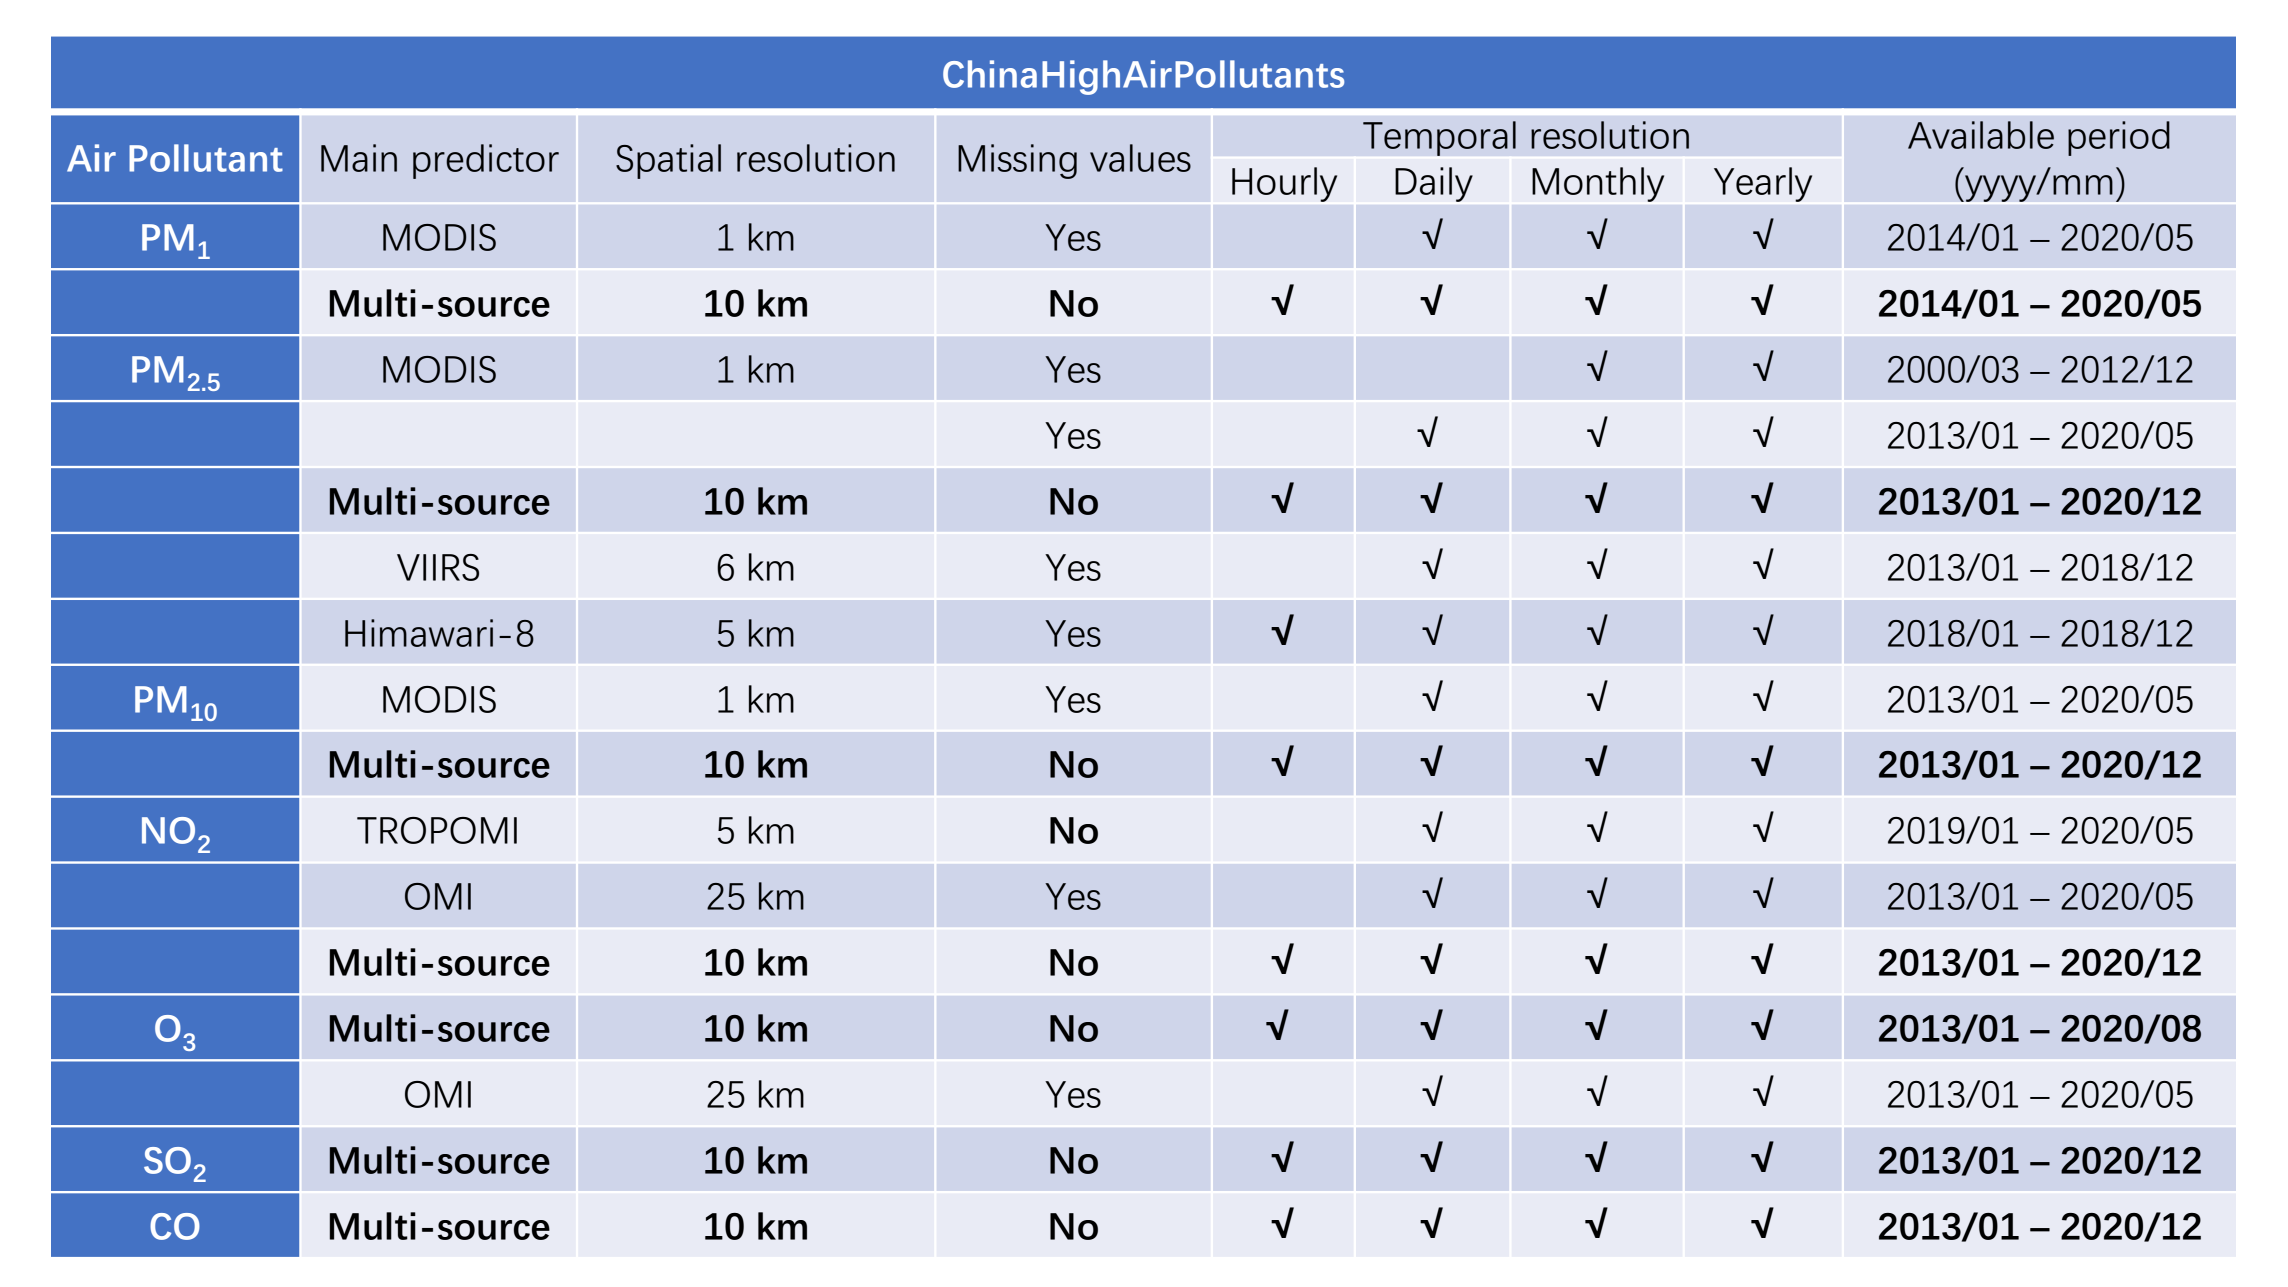
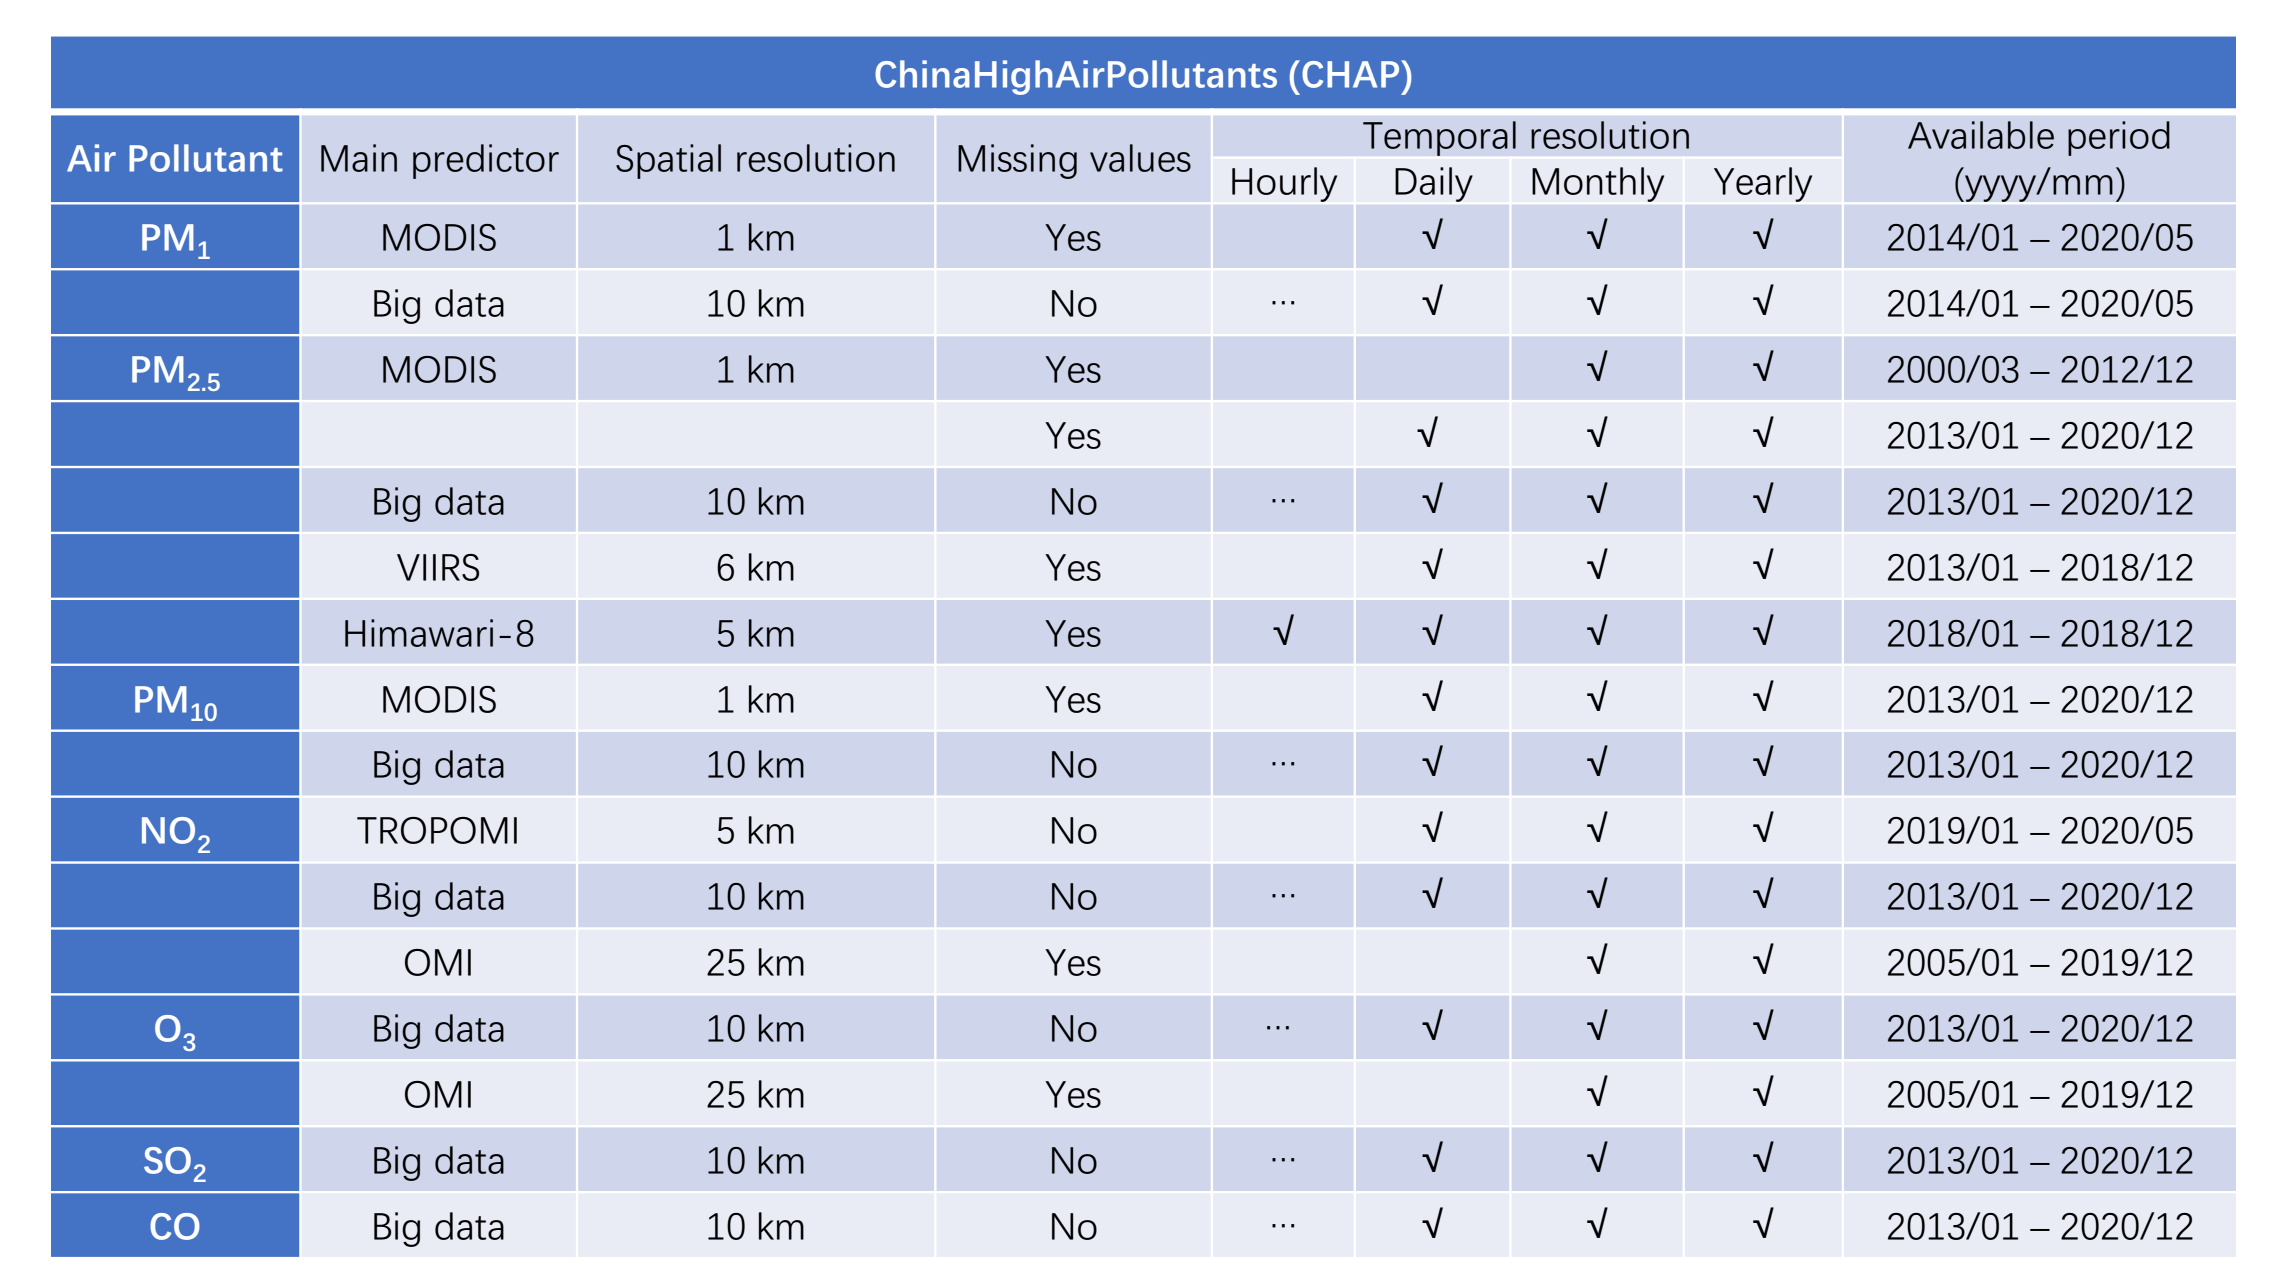
update

diff --git a/product.html b/product.html
@@ -50,10 +50,10 @@
     <p style="text-align:center;"> <strong><font size="4">ChinaHighAirPollutants (CHAP)</font></strong></p>
     <ul>
     <li><p><strong>Brief Introduction</strong></p>
-      <p>The ChinaHighAirPollutants (CHAP) dataset refers to the <strong>long-term</strong>, <strong>full-coverage</strong>, <strong>high-resolution</strong>, and <strong>high-quality</strong> near-surface air pollutants in China. It is generated using the 
-        multi-source satellite remote sensing and artificial intelligence, which combined the ground-based measurements, remote sensing products, atmospheric reanalysis, and model simulations, 
-        and solved the spatiotemporal heterogeneity of air pollution. This dataset contains <strong>7</strong> major air pollutants (i.e., <strong>PM<sub>1</sub></strong>, <strong>PM<sub>2.5</sub></strong>, <strong>PM<sub>10</sub></strong>, 
-        <strong>O<sub>3</sub></strong>, <strong>NO<sub>2</sub></strong>, <strong>SO<sub>2</sub></strong>, and <strong>CO</strong>), more importantly, the <strong>atmospheric component</strong> dataset will be soon released. This dataset is <strong>public</strong> and <strong>freely</strong> open to all users! </p>
+      <p>The ChinaHighAirPollutants (CHAP) dataset refers to the <strong>long-term</strong>, <strong>full-coverage</strong>, <strong>high-resolution</strong>, and <strong>high-quality</strong> near-surface air pollutants in China. 
+        It considered the spatiotemporal heterogeneity of air pollution, and generated using the satellite remote sensing, artificial intelligence, and big data, e.g., ground-based measurements, remote sensing products, atmospheric reanalysis, and model simulations. 
+        This dataset contains <strong>7</strong> major air pollutants (i.e., <strong>PM<sub>1</sub></strong>, <strong>PM<sub>2.5</sub></strong>, <strong>PM<sub>10</sub></strong>, 
+        <strong>O<sub>3</sub></strong>, <strong>NO<sub>2</sub></strong>, <strong>SO<sub>2</sub></strong>, and <strong>CO</strong>). More importantly, the <strong>atmospheric component</strong> dataset will be soon released. This dataset is <strong>public</strong> and <strong>freely</strong> open to all users! </p>
     </li>  
     <li><p><strong>Dataset summary</strong></p>
       <div align="center">
@@ -80,7 +80,7 @@
       <p>Data Link: Will be online soon, but still available by contacting me!</p>
       <p>Reference: Wei, J., Li, Z., Pinker, R. T., Sun, L., Xue, W., and Li, R. <a href='https://doi.org/10.5194/acp-2020-1277' target='_blank' class='url'>Himawari-8-derived diurnal variations of ground-level PM<sub>2.5</sub> pollution across China using a fast space-time Light Gradient Boosting Machine</a>. <em>Atmospheric Chemistry and Physics Discussion</em>, 2021, in review. https://doi.org/10.5194/acp-2020-1277</p>   
    
-      <p><strong>[5] Multi-source: China, 10 km, <font color="red">Full coverage</font>, Yearly/Monthly/Daily, 2013-2020 (Version 1)</strong></p>
+      <p><strong>[5] Big data: China, 10 km, <font color="red">Full coverage</font>, Yearly/Monthly/Daily, 2013-2020 (Version 1)</strong></p>
       <p>Data Link: <a href='https://doi.org/10.5281/zenodo.4641555' target='_blank' class='url'>https://doi.org/10.5281/zenodo.4641555</a></p>
       <p>Reference: Wei, J., et al. In preparation.</p>
       
@@ -94,7 +94,7 @@
       <p>Data Link: <a href='https://doi.org/10.5281/zenodo.3758510' target='_blank' class='url'>https://doi.org/10.5281/zenodo.3758510</a></p>     
       <p>Reference: Wei, J., Li, Z., Guo, J., Sun, L., Huang, W., Xue, W., Fan, T, and Cribb, M. <a href='./publications/Wei_et_al-EST-2019.pdf' target='_blank' class='url'>Satellite-derived 1-km-resolution PM<sub>1</sub> concentrations from 2014 to 2018 across China</a>. <em>Environmental Science &amp; Technology</em>, 2019, 53(22), 13265-13274. https://doi.org/10.1021/acs.est.9b03258</p>
       
-      <p><strong>[2] Multi-source: China, 10 km, <font color="red">Full coverage</font>, Yearly/Monthly/Daily, 2013-2020 (Version 1)</strong></p>
+      <p><strong>[2] Big data: China, 10 km, <font color="red">Full coverage</font>, Yearly/Monthly/Daily, 2013-2020 (Version 1)</strong></p>
       <p>Data Link: <a href='https://doi.org/10.5281/zenodo.4641561' target='_blank' class='url'>https://doi.org/10.5281/zenodo.4641561</a></p>
       <p>Reference: Wei, J., et al. In preparation.</p> 
       
@@ -108,7 +108,7 @@
       <p>Data Link: <a href='https://doi.org/10.5281/zenodo.4396133' target='_blank' class='url'>https://doi.org/10.5281/zenodo.4396133</a></p>
       <p>Reference: Wei, J., Li, Z., Xue, W., Sun, L., Fan, T., Liu, L., Su, T., and Cribb, M. <a href='./publications/Wei_et_al-EI-2021.pdf' target='_blank' class='url'>The ChinaHighPM<sub>10</sub> dataset: generation, validation, and spatiotemporal variations from 2013 to 2019 across China</a>. <em>Environment International</em>, 2021, 146, 106290. https://doi.org/10.1016/j.envint.2020.106290</p>      
  
-      <p><strong>[2] Multi-source: China, 10 km, <font color="red">Full coverage</font>, Yearly/Monthly/Daily, 2013-2020 (Version 1)</strong></p>
+      <p><strong>[2] Big data: China, 10 km, <font color="red">Full coverage</font>, Yearly/Monthly/Daily, 2013-2020 (Version 1)</strong></p>
       <p>Data Link: <a href='https://doi.org/10.5281/zenodo.4641551' target='_blank' class='url'>https://doi.org/10.5281/zenodo.4641551</a></p>
       <p>Reference: Wei, J., et al. In preparation.</p> 
       
@@ -118,10 +118,14 @@
     </li>
 
     <li><p><strong>ChinaHighO<sub>3</sub> dataset</strong></p>
-      <p><strong>Multi-source: China, <font color="red">Full coverage</font>, 10 km, Yearly/Monthly/Daily, 2013-2020 (Version 1)</strong></p>
+      <p><strong>[1] Big data: China, <font color="red">Full coverage</font>, 10 km, Yearly/Monthly/Daily, 2013-2020 (Version 1)</strong></p>
       <p>Data Link: <a href='https://doi.org/10.5281/zenodo.4400043' target='_blank' class='url'>https://doi.org/10.5281/zenodo.4400043</a></p>    
       <p>Reference: Wei, J., et al. Under review.</p>  
       
+      <p><strong>[2] OMI, 25 km, Yearly/Monthly/Daily, 2005-2019 (Version 1)</strong></p>
+      <p>Data Link: <a href='https://doi.org/10.5281/zenodo.3988420' target='_blank' class='url'>https://doi.org/10.5281/zenodo.3988420</a></p>
+      <p>Reference: Wei, J., et al. In preparation.</p>
+
       <div align="center">
         <img src="./pictures/ChinaHighO3.png" width="80%" />
       </div>          
@@ -132,11 +136,11 @@
       <p>Data Link: <a href='https://doi.org/10.5281/zenodo.4571661' target='_blank' class='url'>https://doi.org/10.5281/zenodo.4571661</a></p>   
       <p>Reference: Wei, J., et al. Under review.</p>  
 
-      <p><strong>[2] Multi-source: China, 10 km, <font color="red">Full coverage</font>, Yearly/Monthly/Daily, 2013-2020 (Version 1)</strong></p>
+      <p><strong>[2] Big data: China, 10 km, <font color="red">Full coverage</font>, Yearly/Monthly/Daily, 2013-2020 (Version 1)</strong></p>
       <p>Data Link: <a href='https://doi.org/10.5281/zenodo.4641543' target='_blank' class='url'>https://doi.org/10.5281/zenodo.4641543</a></p>
       <p>Reference: Wei, J., et al. In preparation.</p> 
 
-      <p><strong>[3] OMI, 25 km, Yearly/Monthly/Daily, 2013-2020 (Version 1)</strong></p>
+      <p><strong>[3] OMI, 25 km, Yearly/Monthly/Daily, 2005-2019 (Version 1)</strong></p>
       <p>Data Link: <a href='https://doi.org/10.5281/zenodo.3988349' target='_blank' class='url'>https://doi.org/10.5281/zenodo.3988349</a></p>
       <p>Reference: Wei, J., et al. In preparation.</p>
       
@@ -146,7 +150,7 @@
     </li>
 
     <li><p><strong>ChinaHighSO<sub>2</sub> dataset</strong></p>
-      <p><strong>Multi-source: China, 10 km, <font color="red">Full coverage</font>, Yearly/Monthly/Daily, 2013-2020 (Version 1)</strong></p>
+      <p><strong>Big data: China, 10 km, <font color="red">Full coverage</font>, Yearly/Monthly/Daily, 2013-2020 (Version 1)</strong></p>
       <p>Data Link: <a href='https://doi.org/10.5281/zenodo.4641539' target='_blank' class='url'>https://doi.org/10.5281/zenodo.4641539</a></p>
       <p>Reference: Wei, J., et al. In preparation.</p> 
       
@@ -156,7 +160,7 @@
     </li>
 
     <li><p><strong>ChinaHighCO dataset</strong></p>
-      <p><strong>Multi-source: China, 10 km, <font color="red">Full coverage</font>, Yearly/Monthly/Daily, 2013-2020 (Version 1)</strong></p>
+      <p><strong>Big data: China, 10 km, <font color="red">Full coverage</font>, Yearly/Monthly/Daily, 2013-2020 (Version 1)</strong></p>
       <p>Data Link: <a href='https://doi.org/10.5281/zenodo.4641531' target='_blank' class='url'>https://doi.org/10.5281/zenodo.4641531</a></p>
       <p>Reference: Wei, J., et al. In preparation.</p>
      
